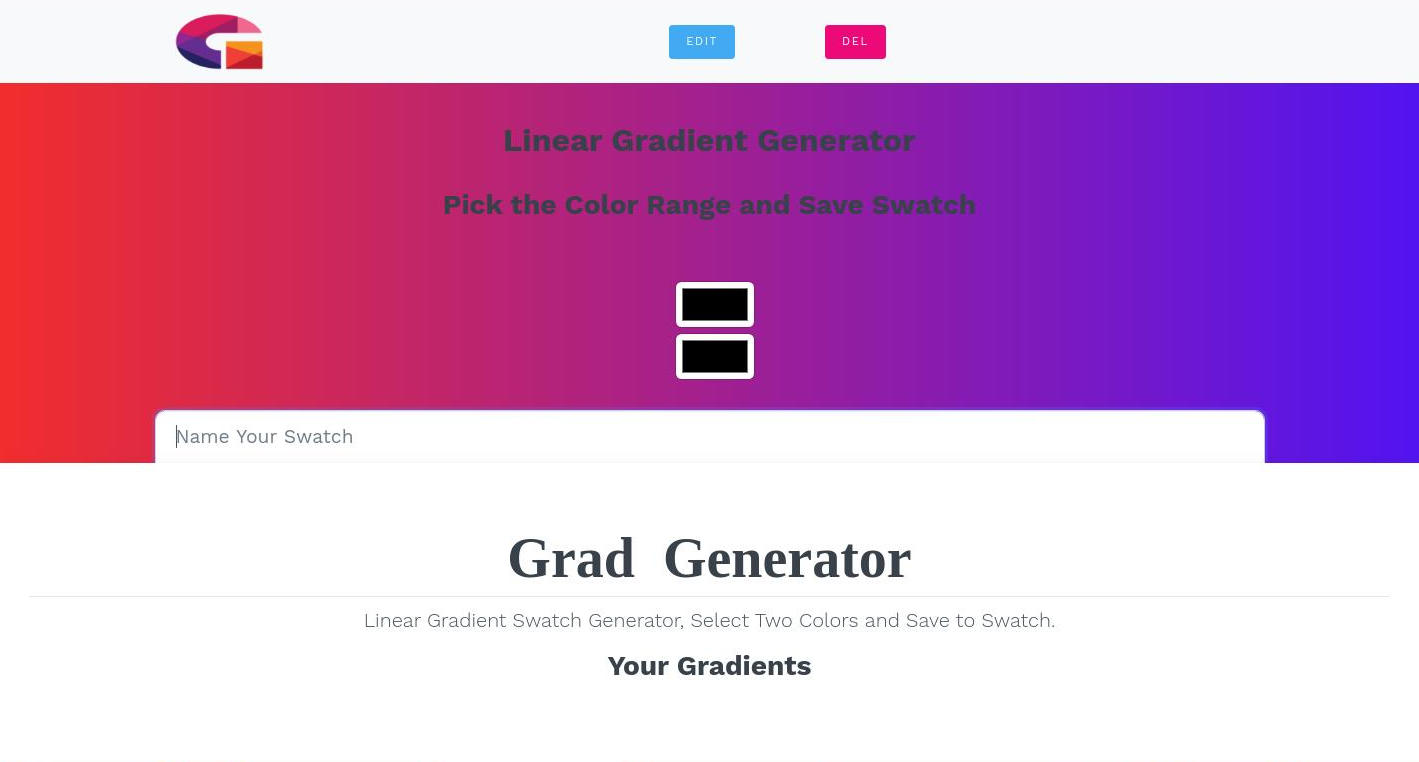
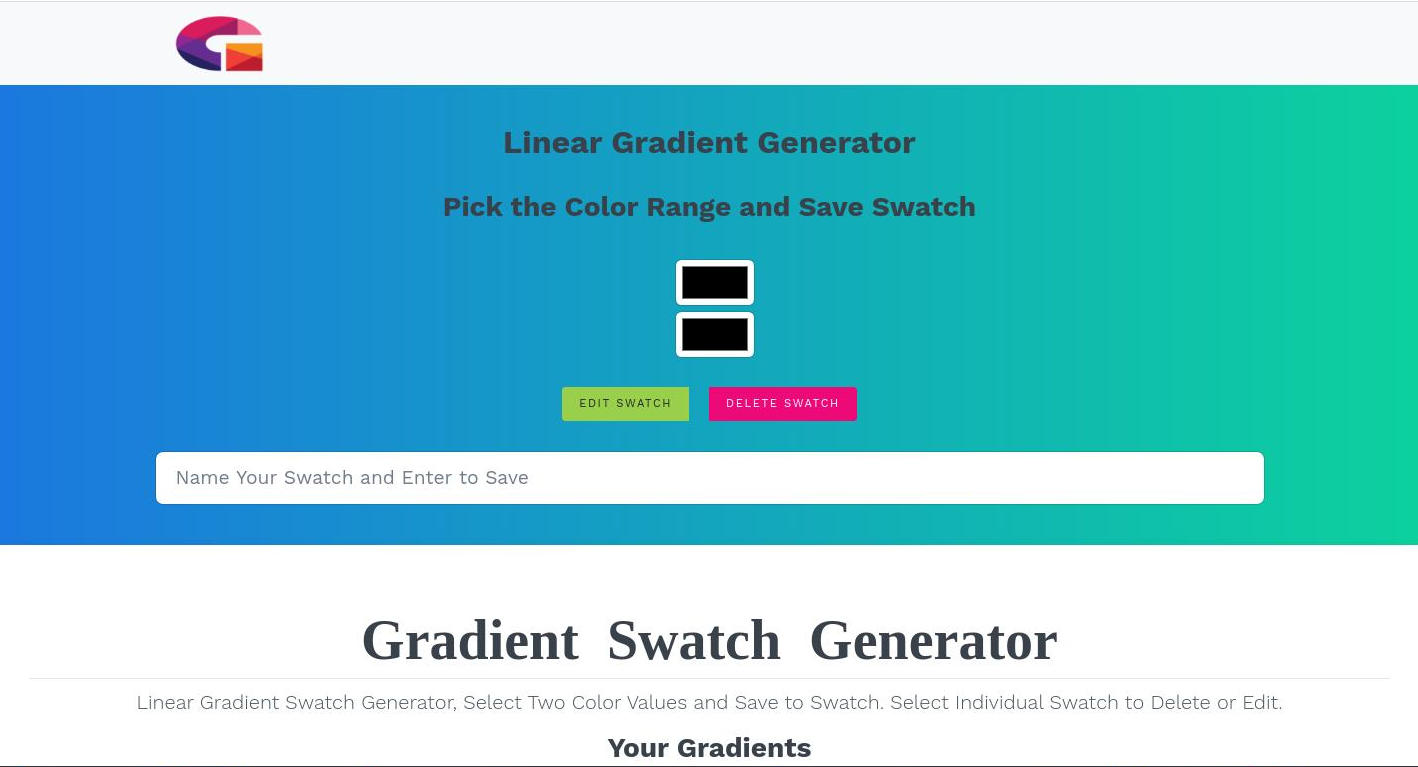
Update

diff --git a/src/App.vue b/src/App.vue
@@ -5,10 +5,6 @@
     <a class="navbar-brand" href="#">
      <img src="./assets/img/Logo.webp" alt="GradGen Logo" width="100px">
      </a>
-      <div>
-    </div>
-    <button type="button" id="editBtn" @click="handleSwatch" class="navbar ml-auto btn btn-sm btn-info" >Edit</button>
-    <button type="button" id="delBtn" @click="deleteSwatch" class="navbar mr-auto btn btn-sm btn-primary" >Del</button>
   </div>
 </nav>
 <div id="bodybg">
@@ -17,12 +13,16 @@
     <br />
     <h3>Pick the Color Range and Save Swatch</h3>
     <br />
-    <br />
-    <div class="mx-auto" style="width: 80px;">
+<div class="mx-auto" style="width: 80px;">
      <b-form-input type="color" size="lg" v-model="value1" ref="value1" :value="value1" @input="setbgColor()" id="colorone" ></b-form-input>
      <b-form-input type="color" size="lg" v-model="value2" ref="value2" :value="value2" @input="setbgColor()" id="colortwo" ></b-form-input>
 </div>
-        <b-form-input
+<br />
+ <div class="btn-group">
+     <button type="button" id="editBtn" @click="handleSwatch" class="navbar ml-auto btn btn-sm btn-success" >Edit Swatch</button>
+    <button type="button" id="delBtn" @click="deleteSwatch" class="navbar mr-auto btn btn-sm btn-primary" >Delete Swatch</button>
+    </div>
+ <b-form-input
         id="name"
         size="lg"
         type="text"
@@ -33,14 +33,14 @@
         :value="value3"
         @keypress="publishSwatch"
         >
-        </b-form-input>
+</b-form-input>
 </div>
 </div>
    <b-jumbotron class="text-center">
    <template v-slot:header>Gradient Swatch Generator</template>
    <template v-slot:lead>
     Linear Gradient Swatch Generator, Select Two Color Values and Save to Swatch.
-    Click Individual Swatch to Delete or Edit.
+    Select Individual Swatch to Delete or Edit.
    </template>
 <div class="container-fluid bg-3 text-center">
   <h3>Your Gradients</h3><br>
@@ -64,7 +64,7 @@ export default {
    // Pick and Set the BG Gradient to main div
   setbgColor() {
     // Set bg and gradient values
-      const bg = document.getElementById('bodybg');
+      let bg = document.getElementById('bodybg');
       this.$emit('input', {
       value1: +this.$refs.value1.value,
       value2: +this.$refs.value2.value,
@@ -123,13 +123,17 @@ export default {
   _.addEventListener('click', () =>
    { document.querySelectorAll('.swatch#bg-gradient').forEach(swatch => swatch.removeAttribute('id'));
     _.setAttribute('id', 'bg-gradient');
-    Vue.swal('Press Del to Delete, or Edit Swatch?');
+    Vue.swal('Press Edit to Edit, or Delete to Delete Swatch');
    })
  })
 },
  editSwatch() {
-  // eslint-disable-next-line no-unused-vars
   let elem = document.querySelector('.swatch#bg-gradient');
+  //let main = document.getElementById('bodybg');
+  if(elem) {
+  console.log(elem.style.value);
+  }
+
  },
  deleteSwatch() {
  let elem = document.querySelector('.swatch#bg-gradient');
@@ -142,8 +146,8 @@ export default {
 <style>
 @media only screen and (min-device-width : 320px) and (max-device-width : 480px) {
 #bodybg {
-      height: 410px;
-      min-height:410px;
+      height: 430px;
+      min-height:430px;
    }
 }
 
@@ -165,14 +169,14 @@ footer {
       padding: 10px;
     }
     #editBtn {
-      margin-right: 45px;
+      margin-right: 10px;
     }
     #delBtn {
-      margin-left: 45px;
+      margin-left: 10px;
     }
     input#name {
       margin-top: 30px;
-      border-radius: 8px 8px 0px 0px;
+      border-radius: 8px 8px 8px 8px;
     }
     h4 {
     font-family:'Cryptofont';
@@ -211,12 +215,12 @@ footer {
 .bg-gradient:focus,
 .bg-gradient:hover,
 .bg-gradient.active {
-  border: solid 3px rgba(84, 112, 155, 0.7);
+ border: solid 3px rgba(84, 112, 155, 0.7);
 }
 #bodybg {
 padding-top: 40px;
-height: 380px;
-background-image: linear-gradient( to right, #ee2b2b, #960ee0);
+height: 460px;
+background-image: linear-gradient( to right,#1b78df,#0cd19e);
 }
 input#colorone,
 input#colortwo {
